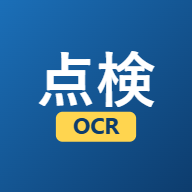
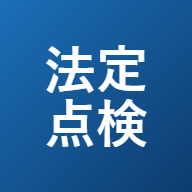
アプリのアイコンを「法定点検」に変更（OCRの札を外す）、ホーム画面の名前も「法定点検」に

Changed region(s): [[0.1875, 0.2188, 0.8125, 0.7812]]

diff --git a/index.html b/index.html
@@ -9,7 +9,7 @@
 <meta name="apple-mobile-web-app-capable" content="yes">
 <meta name="mobile-web-app-capable" content="yes">
 <meta name="apple-mobile-web-app-status-bar-style" content="black-translucent">
-<meta name="apple-mobile-web-app-title" content="点検OCR">
+<meta name="apple-mobile-web-app-title" content="法定点検">
 <meta name="format-detection" content="telephone=no">
 <link rel="icon" type="image/png" sizes="32x32" href="icons/favicon-32.png">
 <link rel="apple-touch-icon" sizes="180x180" href="icons/apple-touch-icon.png">

diff --git a/inspect.html b/inspect.html
@@ -9,7 +9,7 @@
 <meta name="apple-mobile-web-app-capable" content="yes">
 <meta name="mobile-web-app-capable" content="yes">
 <meta name="apple-mobile-web-app-status-bar-style" content="black-translucent">
-<meta name="apple-mobile-web-app-title" content="点検OCR">
+<meta name="apple-mobile-web-app-title" content="法定点検">
 <meta name="format-detection" content="telephone=no">
 <link rel="icon" type="image/png" sizes="32x32" href="icons/favicon-32.png">
 <link rel="apple-touch-icon" sizes="180x180" href="icons/apple-touch-icon.png">

diff --git a/settings.html b/settings.html
@@ -9,7 +9,7 @@
 <meta name="apple-mobile-web-app-capable" content="yes">
 <meta name="mobile-web-app-capable" content="yes">
 <meta name="apple-mobile-web-app-status-bar-style" content="black-translucent">
-<meta name="apple-mobile-web-app-title" content="点検OCR">
+<meta name="apple-mobile-web-app-title" content="法定点検">
 <meta name="format-detection" content="telephone=no">
 <link rel="icon" type="image/png" sizes="32x32" href="icons/favicon-32.png">
 <link rel="apple-touch-icon" sizes="180x180" href="icons/apple-touch-icon.png">

diff --git a/vehicle.html b/vehicle.html
@@ -9,7 +9,7 @@
 <meta name="apple-mobile-web-app-capable" content="yes">
 <meta name="mobile-web-app-capable" content="yes">
 <meta name="apple-mobile-web-app-status-bar-style" content="black-translucent">
-<meta name="apple-mobile-web-app-title" content="点検OCR">
+<meta name="apple-mobile-web-app-title" content="法定点検">
 <meta name="format-detection" content="telephone=no">
 <link rel="icon" type="image/png" sizes="32x32" href="icons/favicon-32.png">
 <link rel="apple-touch-icon" sizes="180x180" href="icons/apple-touch-icon.png">

diff --git a/view.html b/view.html
@@ -9,7 +9,7 @@
 <meta name="apple-mobile-web-app-capable" content="yes">
 <meta name="mobile-web-app-capable" content="yes">
 <meta name="apple-mobile-web-app-status-bar-style" content="black-translucent">
-<meta name="apple-mobile-web-app-title" content="点検OCR">
+<meta name="apple-mobile-web-app-title" content="法定点検">
 <meta name="format-detection" content="telephone=no">
 <link rel="icon" type="image/png" sizes="32x32" href="icons/favicon-32.png">
 <link rel="apple-touch-icon" sizes="180x180" href="icons/apple-touch-icon.png">

diff --git a/sw.js b/sw.js
@@ -9,7 +9,7 @@
  * ========================================================================== */
 
 const CACHE_PREFIX  = 'vis-ocr-';
-const CACHE_VERSION = CACHE_PREFIX + 'v7';
+const CACHE_VERSION = CACHE_PREFIX + 'v8';
 
 /** オフラインでも必ず動くよう、先に取っておくファイル */
 const PRECACHE = [
